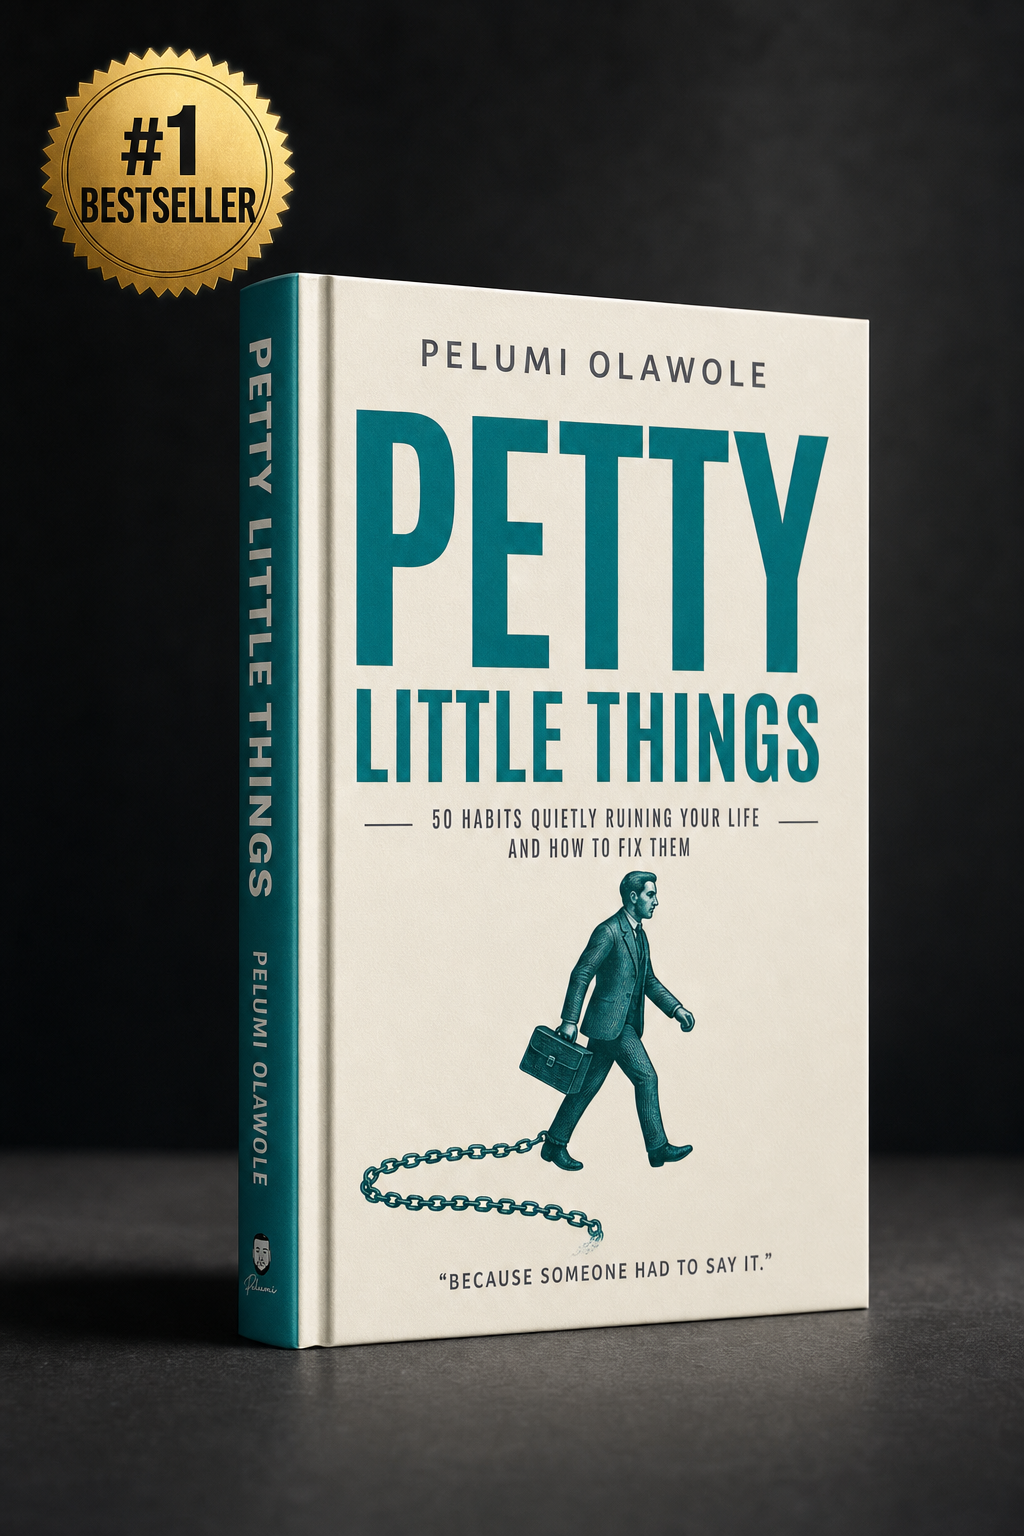
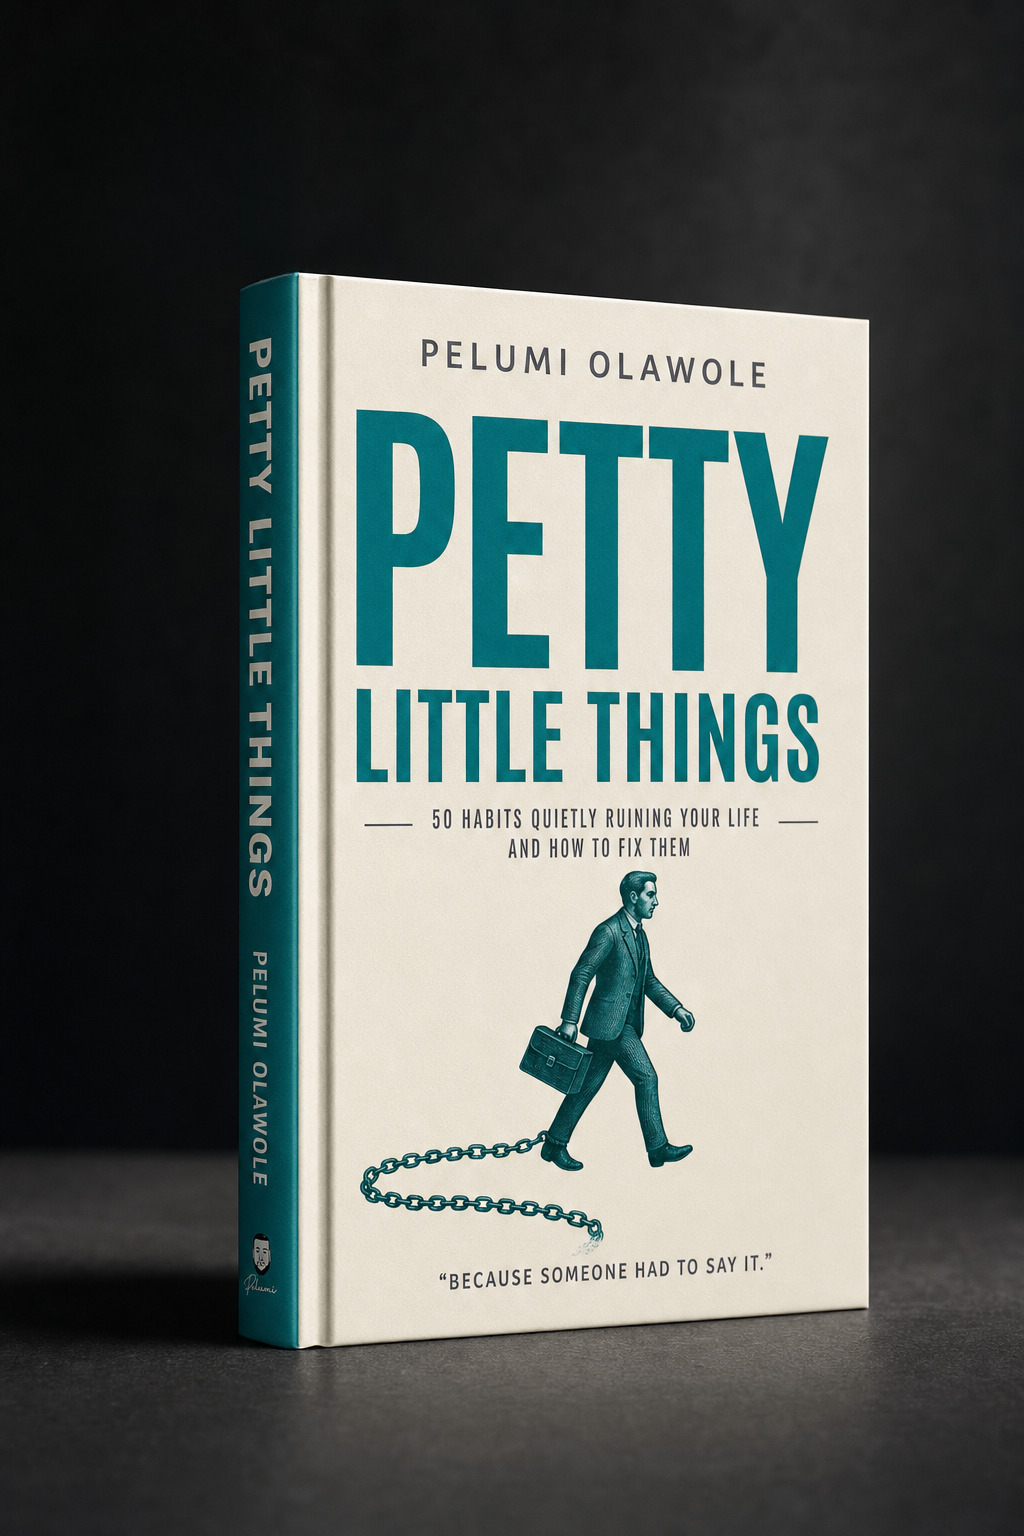
fix: remove unverifiable "#1 BESTSELLER" badge from book cover and OG card
The badge can't be backed, so it's being removed everywhere it
appeared on the live site.

Searched the whole repo for every book-cover usage before changing
anything. Two files actually carried the badge:
  - public/images/book-cover.png -- used in BookReveal.tsx (/book
    hero), BookPreview.tsx (homepage preview), and the Book JSON-LD
    `image` field in book/page.tsx (that field needed no code change,
    since it already points at this same file by absolute URL)
  - public/images/book/plt-og.png -- the full 1200x630 OG/link-preview
    card, with the badge baked into the layout

Checked and confirmed clean, untouched: plt-banner-a/b/c.png (flat-lay
mockups), book-man.png (/forge-program lifestyle photo, different page),
and four unused dead assets (book-hero-3d.png, book-mock.png,
book-page.png, book-hero.png -- no code references, no badge anyway).

Changes:
  - book-cover.png replaced in place with the badge-free image (same
    1024x1536 dimensions as the file it replaces, so no crop/reposition
    needed; same filename means BookReveal.tsx, BookPreview.tsx, and
    the JSON-LD reference all pick it up with zero code changes)
  - plt-og.png deleted outright rather than left as an orphaned dead
    asset -- it would otherwise still be directly fetchable at its old
    URL with the unbacked claim baked into the image, even with no
    page linking to it
  - New plt-og-v2.png built at 1200x630, same layout as the original
[…]

Changed region(s): [[0.0312, 0.0312, 0.3125, 0.1875]]

diff --git a/src/app/book/page.tsx b/src/app/book/page.tsx
@@ -25,7 +25,7 @@ export const metadata: Metadata = {
     type: "book",
     images: [
       {
-        url: "/images/book/plt-og.png",
+        url: "https://pelumiolawole.com/images/book/plt-og-v2.png",
         width: 1200,
         height: 630,
         alt: "Petty Little Things — 50 Habits Quietly Ruining Your Life, by Pelumi Olawole",
@@ -36,7 +36,7 @@ export const metadata: Metadata = {
     card: "summary_large_image",
     title: "Petty Little Things by Pelumi Olawole",
     description,
-    images: ["/images/book/plt-og.png"],
+    images: ["https://pelumiolawole.com/images/book/plt-og-v2.png"],
   },
 };
 
